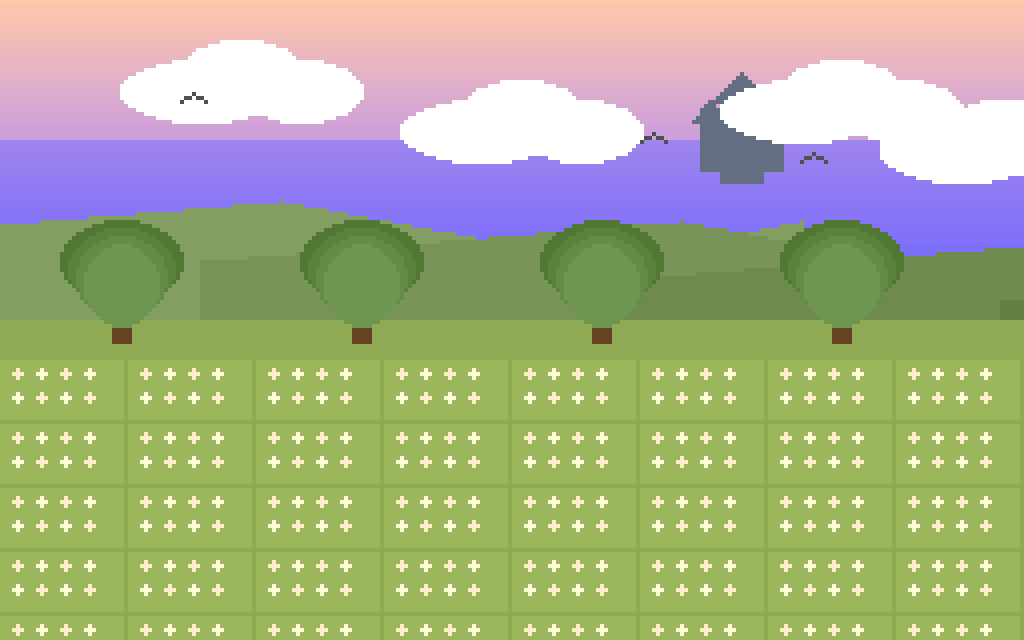
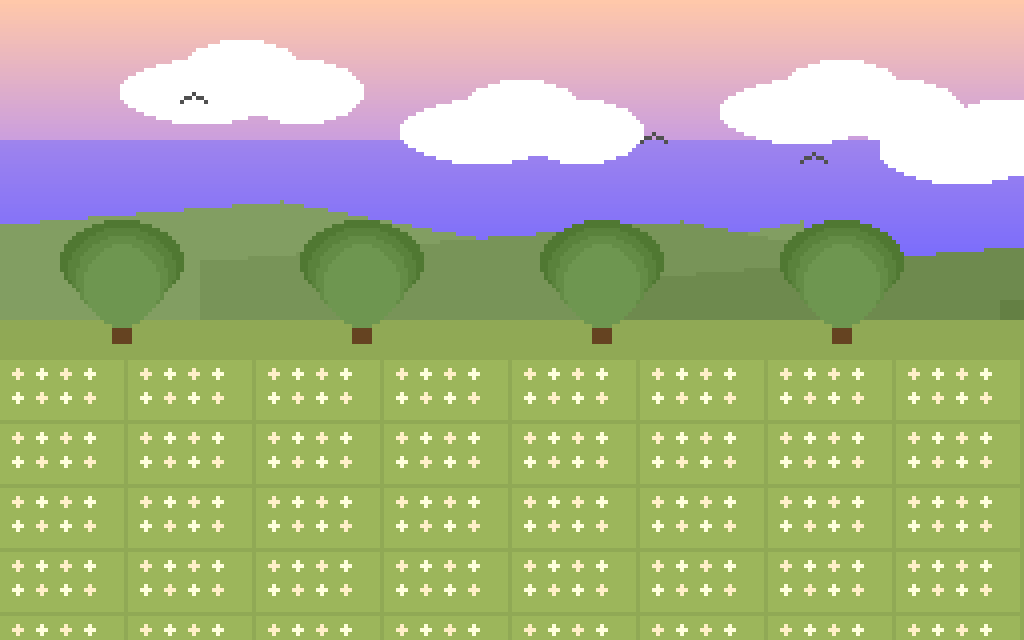
Odstranění hradu

Changed region(s): [[0.6562, 0.125, 0.7812, 0.3125]]

diff --git a/index.html b/index.html
@@ -25,6 +25,7 @@
                 <div class="town-scene">
                     <!-- Buildings will be positioned absolutely within this container -->
                     <div class="building house" data-type="house">
+                        <div class="level-badge"><span class="level-value">0</span></div>
                         <div class="tooltip">
                             <h3>House</h3>
                             <div class="level">Level: <span class="level-value">0</span></div>
@@ -33,6 +34,7 @@
                         </div>
                     </div>
                     <div class="building farm" data-type="farm">
+                        <div class="level-badge"><span class="level-value">0</span></div>
                         <div class="tooltip">
                             <h3>Farm</h3>
                             <div class="level">Level: <span class="level-value">0</span></div>
@@ -41,6 +43,7 @@
                         </div>
                     </div>
                     <div class="building mine" data-type="mine">
+                        <div class="level-badge"><span class="level-value">0</span></div>
                         <div class="tooltip">
                             <h3>Mine</h3>
                             <div class="level">Level: <span class="level-value">0</span></div>
@@ -49,6 +52,7 @@
                         </div>
                     </div>
                     <div class="building factory" data-type="factory">
+                        <div class="level-badge"><span class="level-value">0</span></div>
                         <div class="tooltip">
                             <h3>Factory</h3>
                             <div class="level">Level: <span class="level-value">0</span></div>
@@ -57,6 +61,7 @@
                         </div>
                     </div>
                     <div class="building bank" data-type="bank">
+                        <div class="level-badge"><span class="level-value">0</span></div>
                         <div class="tooltip">
                             <h3>Bank</h3>
                             <div class="level">Level: <span class="level-value">0</span></div>

diff --git a/styles.css b/styles.css
@@ -108,6 +108,31 @@ h1, h2 {
     filter: grayscale(100%) drop-shadow(2px 4px 6px rgba(0, 0, 0, 0.2));
 }
 
+/* Level badge */
+.level-badge {
+    position: absolute;
+    top: -10px;
+    right: -10px;
+    background: linear-gradient(135deg, #f8d374, #e5a853);
+    border: 2px solid #fff;
+    border-radius: 50%;
+    width: 24px;
+    height: 24px;
+    display: flex;
+    align-items: center;
+    justify-content: center;
+    font-size: 12px;
+    font-weight: bold;
+    color: #fff;
+    text-shadow: 0 1px 2px rgba(0, 0, 0, 0.3);
+    box-shadow: 0 2px 4px rgba(0, 0, 0, 0.2);
+    z-index: 2;
+}
+
+.building.disabled .level-badge {
+    background: linear-gradient(135deg, #a8a8a8, #808080);
+}
+
 /* Building positions and images */
 .house {
     bottom: 45%;
@@ -142,7 +167,7 @@ h1, h2 {
 .tooltip {
     display: none;
     position: absolute;
-    bottom: 100%;
+    top: 100%;
     left: 50%;
     transform: translateX(-50%);
     background-color: rgba(0, 0, 0, 0.8);
@@ -152,6 +177,18 @@ h1, h2 {
     width: 200px;
     pointer-events: none;
     z-index: 1000;
+    margin-top: 8px;
+}
+
+.tooltip::before {
+    content: '';
+    position: absolute;
+    top: -6px;
+    left: 50%;
+    transform: translateX(-50%);
+    border-left: 6px solid transparent;
+    border-right: 6px solid transparent;
+    border-bottom: 6px solid rgba(0, 0, 0, 0.8);
 }
 
 .building:hover .tooltip {

diff --git a/game.js b/game.js
@@ -58,32 +58,11 @@ class Game {
         this.createShopElements();
         this.updateDisplay();
         
-        document.querySelector('.town-scene').addEventListener('click', (e) => {
-            if (e.target === document.querySelector('.town-scene')) {
-                this.collectGold();
-            }
-        });
-        
         setInterval(() => this.update(), 50);
     }
 
     collectGold() {
-        this.gold += this.clickValue;
-        this.updateDisplay();
-        
-        const floatingNumber = document.createElement('div');
-        floatingNumber.textContent = `+${this.clickValue}`;
-        floatingNumber.style.position = 'absolute';
-        floatingNumber.style.left = event.clientX + 'px';
-        floatingNumber.style.top = event.clientY + 'px';
-        floatingNumber.style.color = '#27ae60';
-        floatingNumber.style.pointerEvents = 'none';
-        floatingNumber.style.animation = 'float-up 1s ease-out';
-        document.body.appendChild(floatingNumber);
-        
-        setTimeout(() => {
-            document.body.removeChild(floatingNumber);
-        }, 1000);
+        // Remove or comment out the unused collectGold method
     }
 
     setupBuildingHandlers() {

diff --git a/create_background.py b/create_background.py
@@ -18,17 +18,6 @@ def create_background():
             b = int(220 + (y * 0.5))
         draw.line([(0, y), (255, y)], fill=(r, g, b))
 
-    # Distant castle silhouette
-    castle_color = (100, 110, 130)
-    # Main tower
-    draw.rectangle([(180, 25), (190, 45)], fill=castle_color)
-    draw.polygon([(178, 25), (192, 25), (185, 18)], fill=castle_color)
-    # Side towers
-    draw.rectangle([(175, 30), (180, 42)], fill=castle_color)
-    draw.rectangle([(190, 30), (195, 42)], fill=castle_color)
-    draw.polygon([(173, 30), (182, 30), (177, 25)], fill=castle_color)
-    draw.polygon([(188, 30), (197, 30), (192, 25)], fill=castle_color)
-
     # Rolling hills (Ghibli-style layered)
     # Back hills
     for i, x in enumerate(range(-50, 300, 100)):
